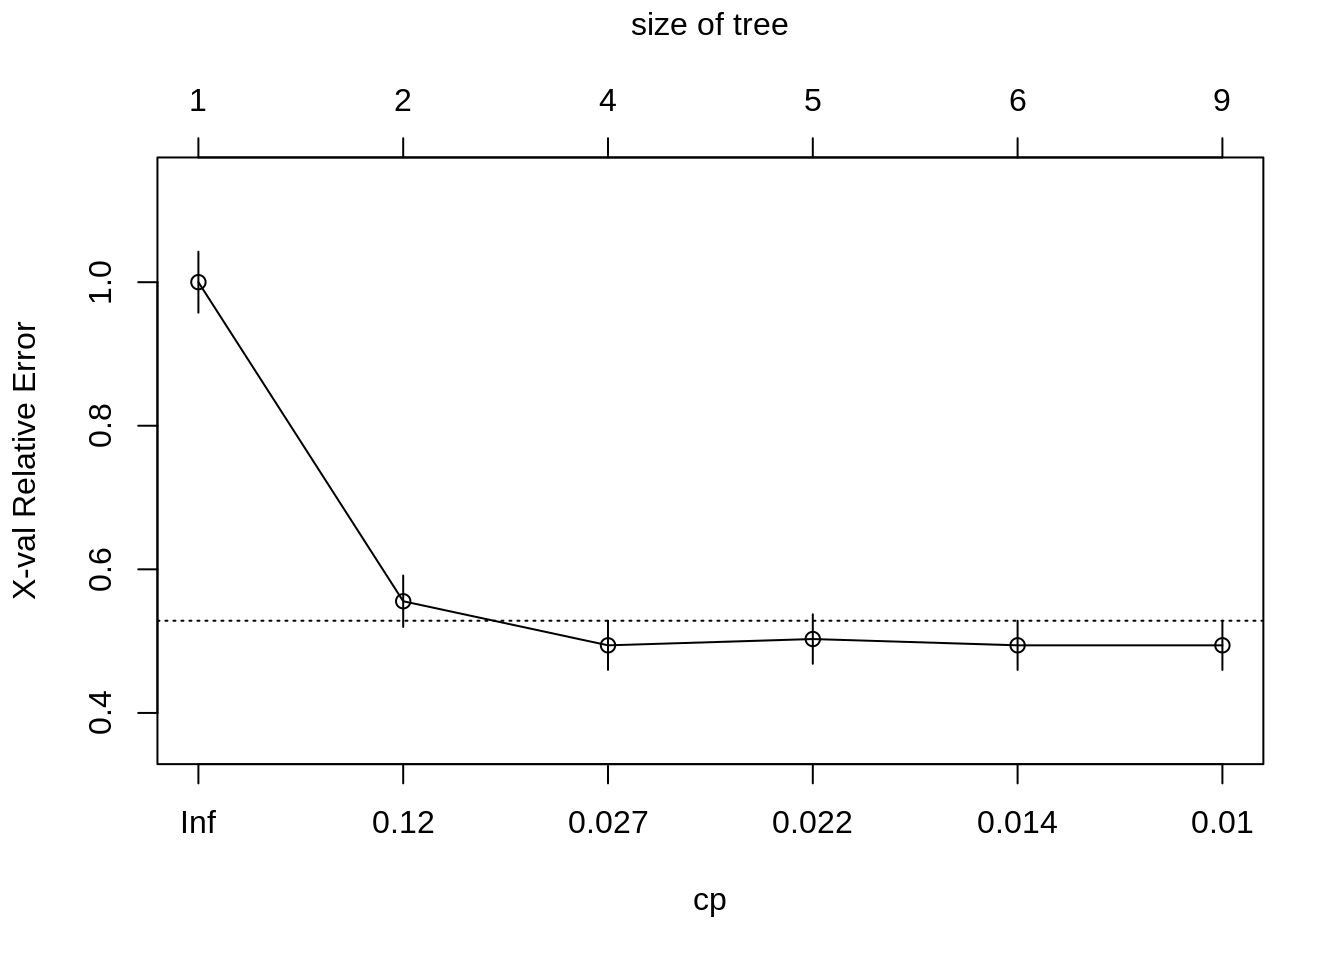
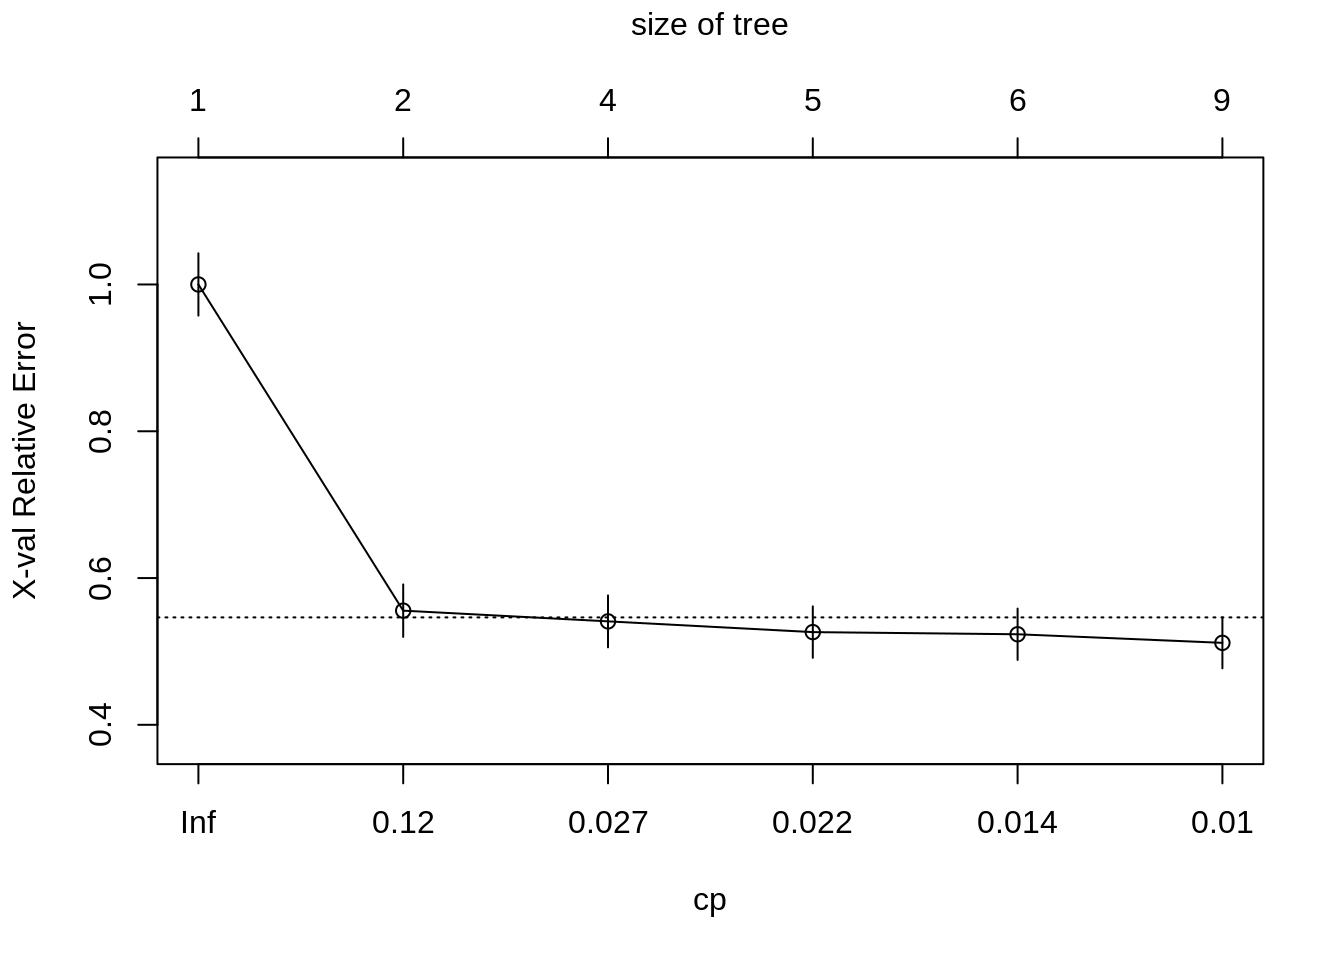
Deploy lebebr01/stat_thinking to github.com/lebebr01/stat_thinking.git:master

diff --git a/docs/classification.html b/docs/classification.html
@@ -324,10 +324,10 @@ titanic &lt;-<span class="st"> </span><span class="kw">bind_rows</span>(titanic_
 ##         CP nsplit rel error  xerror     xstd
 ## 1 0.444444      0   1.00000 1.00000 0.042446
 ## 2 0.030702      1   0.55556 0.55556 0.035750
-## 3 0.023392      3   0.49415 0.49415 0.034217
-## 4 0.020468      4   0.47076 0.50292 0.034448
-## 5 0.010234      5   0.45029 0.49415 0.034217
-## 6 0.010000      8   0.41813 0.49415 0.034217</code></pre>
+## 3 0.023392      3   0.49415 0.54094 0.035402
+## 4 0.020468      4   0.47076 0.52632 0.035043
+## 5 0.010234      5   0.45029 0.52339 0.034970
+## 6 0.010000      8   0.41813 0.51170 0.034675</code></pre>
 <div class="sourceCode"><pre class="sourceCode r"><code class="sourceCode r"><span class="kw">plotcp</span>(class_tree)</code></pre></div>
 <p><img src="05-classification_files/figure-html/unnamed-chunk-6-1.png" width="672" /></p>
 <div class="sourceCode"><pre class="sourceCode r"><code class="sourceCode r">prune_class_tree &lt;-<span class="st"> </span><span class="kw">prune</span>(class_tree, <span class="dt">cp =</span> .<span class="dv">02</span>)

diff --git a/docs/05-classification.md b/docs/05-classification.md
@@ -249,10 +249,10 @@ printcp(class_tree)
 ##         CP nsplit rel error  xerror     xstd
 ## 1 0.444444      0   1.00000 1.00000 0.042446
 ## 2 0.030702      1   0.55556 0.55556 0.035750
-## 3 0.023392      3   0.49415 0.49415 0.034217
-## 4 0.020468      4   0.47076 0.50292 0.034448
-## 5 0.010234      5   0.45029 0.49415 0.034217
-## 6 0.010000      8   0.41813 0.49415 0.034217
+## 3 0.023392      3   0.49415 0.54094 0.035402
+## 4 0.020468      4   0.47076 0.52632 0.035043
+## 5 0.010234      5   0.45029 0.52339 0.034970
+## 6 0.010000      8   0.41813 0.51170 0.034675
 ```
 
 ```r
